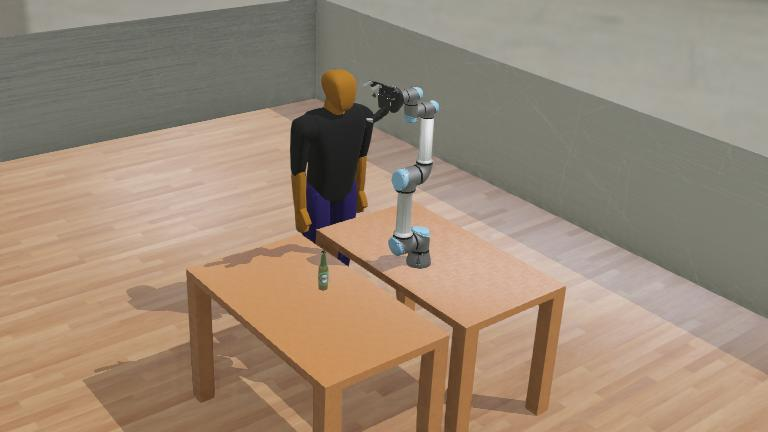
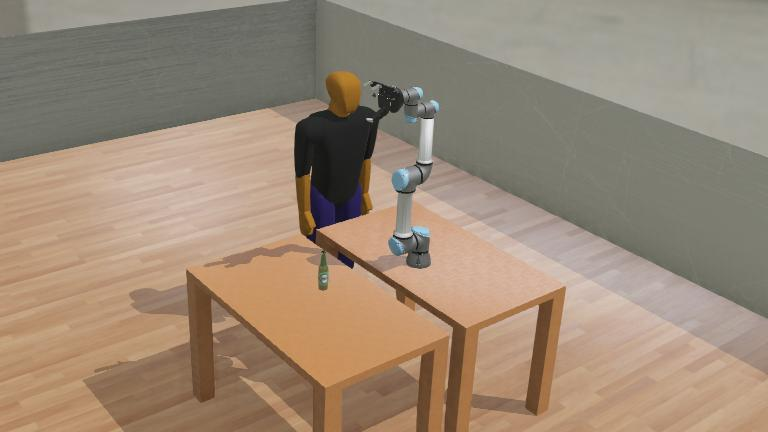
some poses updated, XYZ and ZYX added

diff --git a/ur5.py b/ur5.py
@@ -85,7 +85,7 @@ def limit_angle(angle):
         return angle_mod
 
 
-def build_matrix(pos: "np.ndarray", rot: "np.ndarray"):
+def build_matrix(pos: "np.ndarray", rot: "np.ndarray", euler: "str" = "XYZ"):
     """
     Builds the transformation matrix from position and Euler angles
 
@@ -99,8 +99,10 @@ def build_matrix(pos: "np.ndarray", rot: "np.ndarray"):
     Rx = rot_x(rot[0])
     Ry = rot_y(rot[1])
     Rz = rot_z(rot[2])
-    R = np.dot(Rx, Ry)
-    R = np.dot(R, Rz)
+    if euler == "XYZ":
+        R = reduce(np.dot, [Rx, Ry, Rz])
+    elif euler == "ZYX":
+        R = reduce(np.dot, [Rz, Ry, Rx])
     R[0][3] = pos[0]
     R[1][3] = pos[1]
     R[2][3] = pos[2]
@@ -681,7 +683,7 @@ class UR5:
         )
 
     def move_to_pose(
-        self, pos: "np.ndarray", rot: "np.ndarray", wrist="down", shoulder="left", duration=None, verbose=False
+        self, pos: "np.ndarray", rot: "np.ndarray", euler="XYZ", wrist="down", shoulder="left", duration=None, verbose=False
     ):
         """
         Move to specified position and orientation
@@ -692,7 +694,7 @@ class UR5:
             wrist: 'up' or 'down'
             duration: time to reach position
         """
-        T = build_matrix(pos, rot)
+        T = build_matrix(pos, rot, euler=euler)
         joint_angles = inverse_kinematics(
             T, wrist=wrist, shoulder=shoulder, elbow="up")
         if duration is not None:
